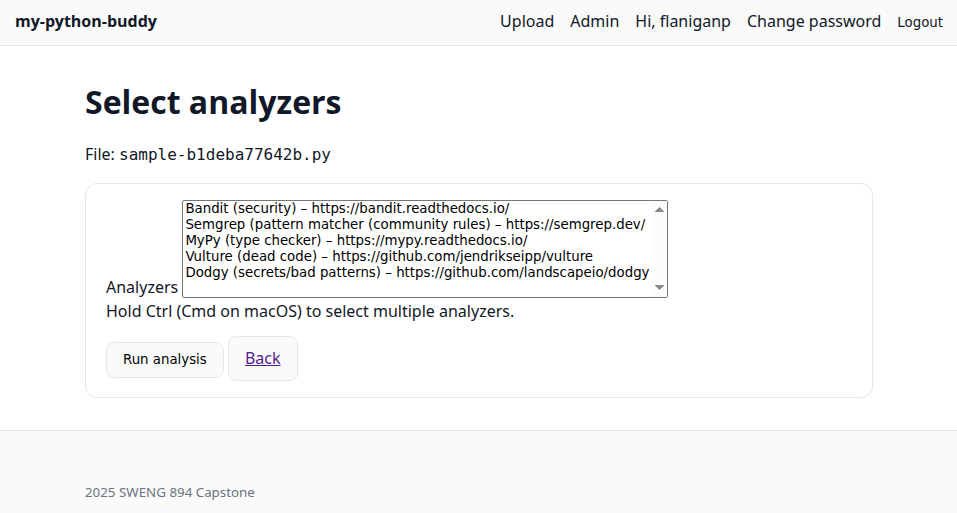
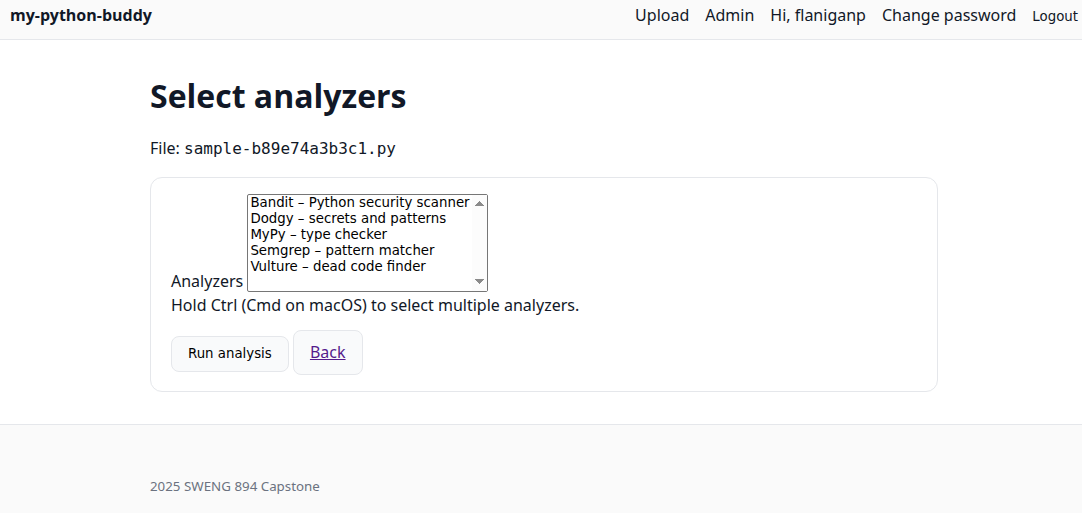
Updated user documentation for new interface integrations.

diff --git a/documentation/guide/user.md b/documentation/guide/user.md
@@ -36,18 +36,40 @@ Upon upload, the system either confirms success...
 
 ## Post Login Stage 6: User is prompted to select from a list of analyzers
 
-The user is presented the available analyzers, allowing the user to select the ones they want to run the code analysis. The user will then select `Run analysis`.
+The user is presented the available analyzers, allowing the user to select the ones they want to run the code analysis. The user will then select `Analyze`.
 
 ![Analyzer Choice](documentation/supporting_images/01-05-post-login-3.png)
 
 ## Post Login Stage 7: Template Analyze Code Page (selected only Bandit for brevity)
 
-The use is presented with the Analysis (currently templated) page that shows side-by-side the code with numbered lines and the part that will display the security findings and LLM recommendations.
+User is redirected back to the `Upload` page with a filled out table with file metadata, options to view, re-analyze and view each analyzer status and results. User is asked to refresh the page once scans are completed until `Django Channels` are implemented
 
-![Analysis Page](documentation/supporting_images/01-05-post-login-4.png)
+![Analysis Page](documentation/supporting_images/01-05-post-login-4_1.png)
 
-## Post Login Stage 8: Revisit submission page where previous submission is visible
+![Analysis Page](documentation/supporting_images/01-05-post-login-4_2.png)
 
-Upon selection of the `Upload` in the upper right hand menu the user is returned to the submission page that has a table displaying the last submission as a row with future functionality being that analysis can be re-run or even deleted..
+## Post Login Stage 8: Table expansion
 
-![Upload Screen Table](documentation/supporting_images/01-05-post-login-5.png)
+Another file upload and selection of analyzers and `Analzye` will result in a table expansion of the next file.
+
+![Analysis Page](documentation/supporting_images/01-05-post-login-4_2.png)
+
+## Post Login Stage 9: Viewing an Analysis Page
+
+Selecting `👁` from the respective analyzer's results column will result in a redirect to the Analysis Results Page. Of which there are three sections:
+
+- File and Analyzer Metadata
+- Findings Table
+- Source Code
+
+Each selection of a findings row will result in the directing of the user to that specific code line and column color coded by that respective severity color.
+
+![Analysis Page](documentation/supporting_images/01-07-post-login-5-analysis_1.png)
+![Analysis Page](documentation/supporting_images/01-07-post-login-5-analysis_2.png)
+![Analysis Page](documentation/supporting_images/01-07-post-login-5-analysis_3.png)
+
+# Post Login Stage 10: Viewing of Uploaded File
+
+Selecting `👁` in the View File column will result in the new page consisting of the uploaded file in case the user wants to download it.
+
+![Analysis Page](documentation/supporting_images/09-01-view-download.png)
